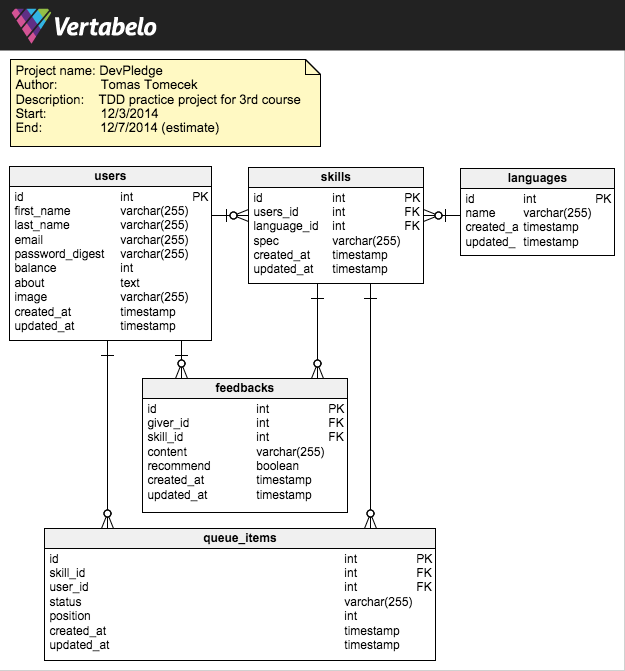
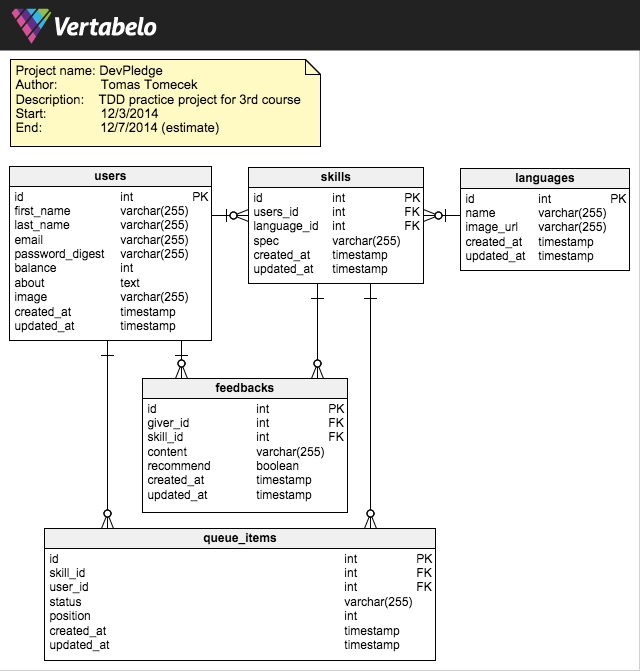
update ERD, add language model, spec

diff --git a/db/schema.rb b/db/schema.rb
@@ -11,10 +11,17 @@
 #
 # It's strongly recommended that you check this file into your version control system.
 
-ActiveRecord::Schema.define(version: 20141204193026) do
+ActiveRecord::Schema.define(version: 20141205155740) do
 
   # These are extensions that must be enabled in order to support this database
   enable_extension "plpgsql"
+
+  create_table "languages", force: true do |t|
+    t.string   "name"
+    t.datetime "created_at"
+    t.datetime "updated_at"
+    t.string   "image_url"
+  end
 
   create_table "users", force: true do |t|
     t.string   "first_name"

diff --git a/db/seeds.rb b/db/seeds.rb
@@ -5,3 +5,11 @@
 #
 #   cities = City.create([{ name: 'Chicago' }, { name: 'Copenhagen' }])
 #   Mayor.create(name: 'Emanuel', city: cities.first)
+
+
+User.find_or_create(first_name: "Tom", last_name: "Tom", email: "tom@e.com", password: "password")
+Fabricate.times(4, :user)
+
+%w(HTML CSS Angular.js Ruby Rails jQuery SQL Java Python).each do |language|
+  Language.find_or_create(name: language, image_url: "#{language.downcase}.jpg")
+end
